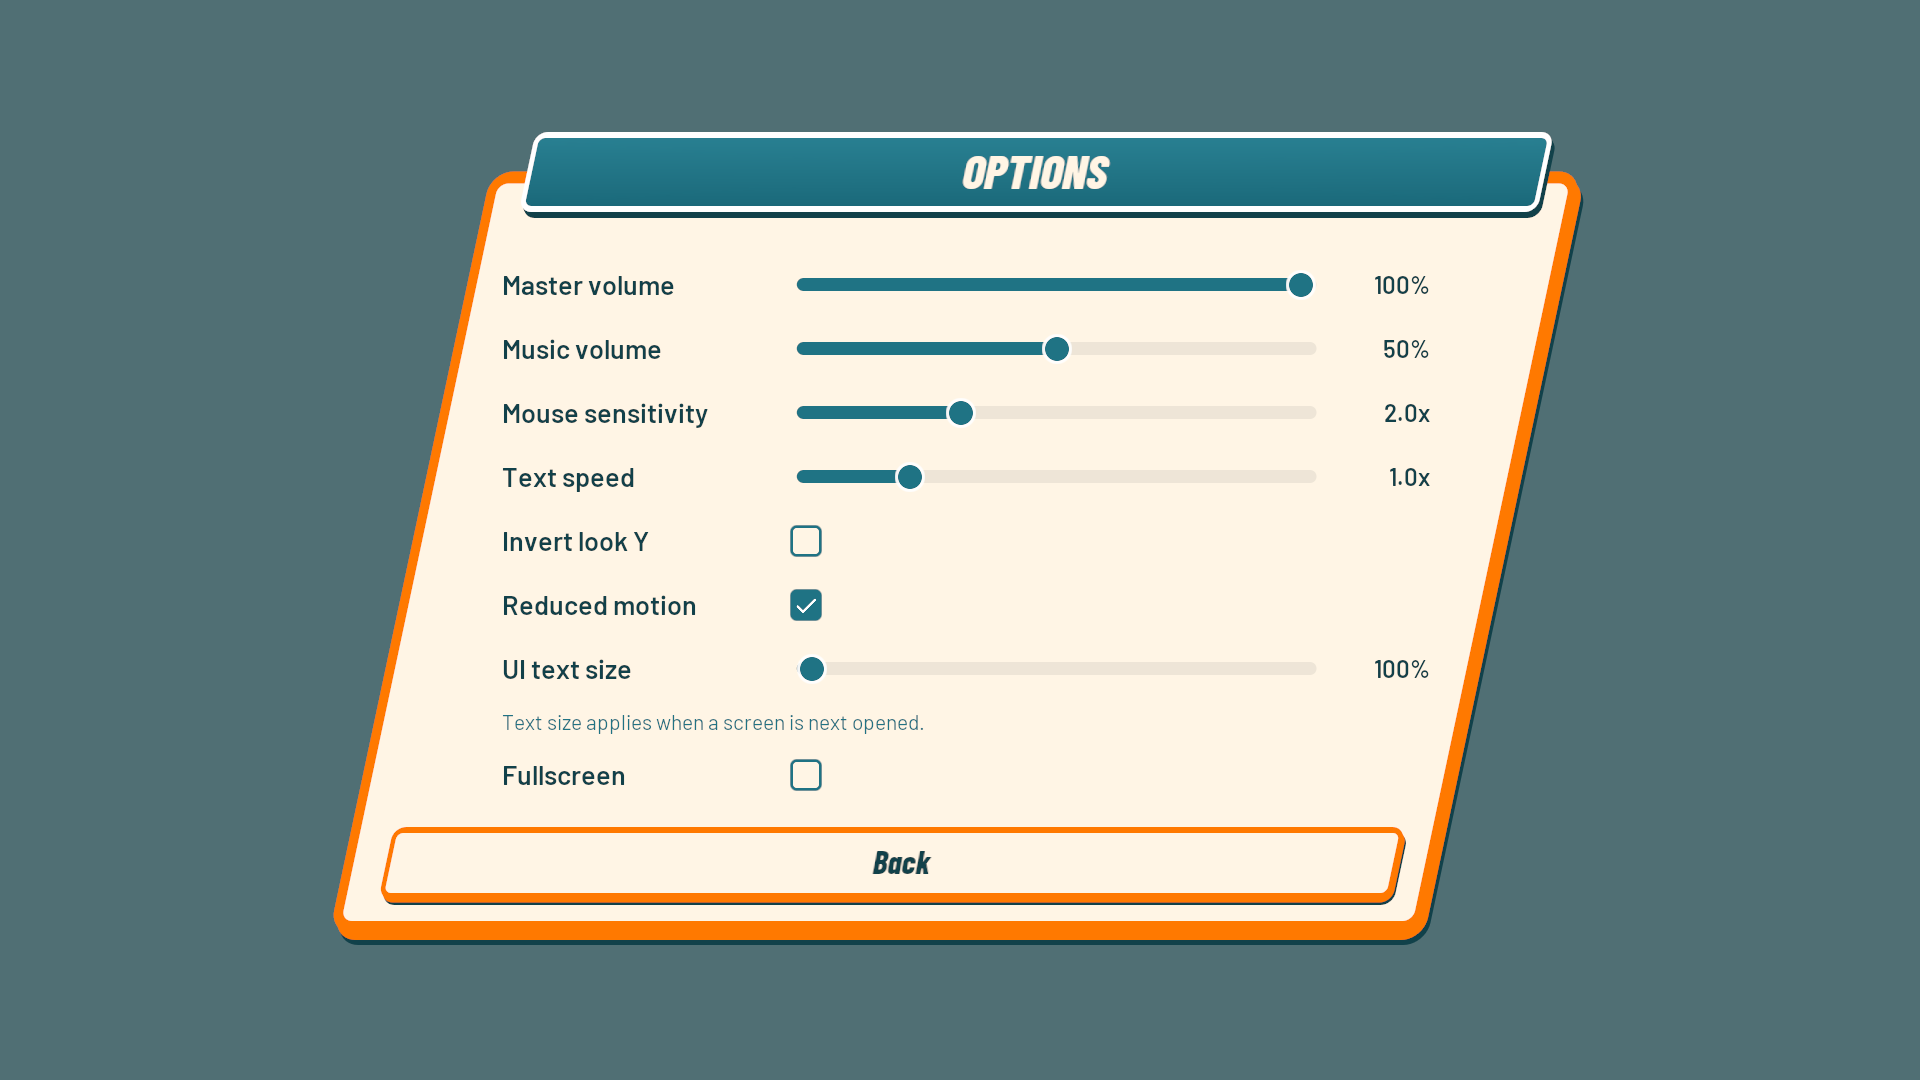
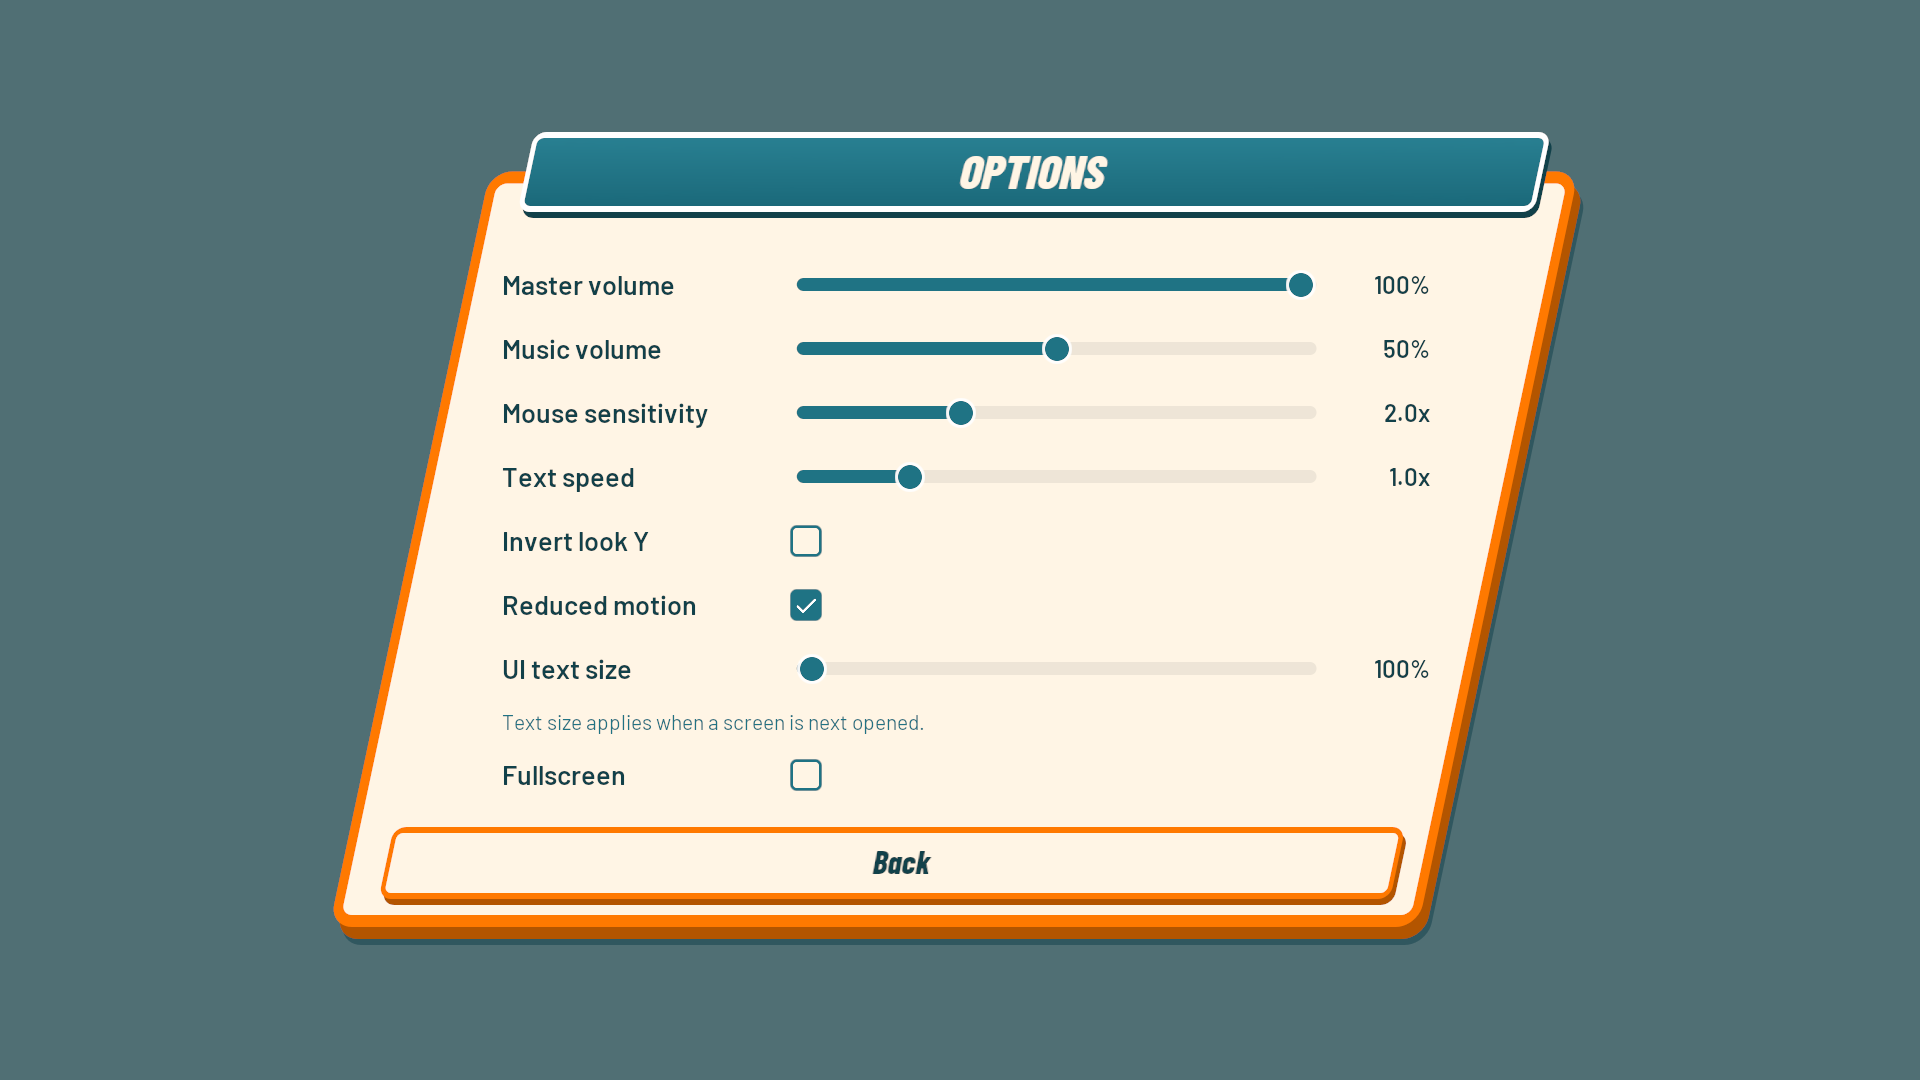
Dialogue in Barlow SemiBold Italic at 12 degrees; 50% shadow on popups
Imports Barlow SemiBold Italic (OFL, same Barlow family) as a 'Lean' typeface:
7-degree native italic plus the shared shear to reach the 12-degree grid.
Spoken lines, narration, topics and replies use it at 26. Popup-weight
surfaces regain an ink shadow at 50% opacity beyond their extrusion.

diff --git a/Source/ICanFixHim/UI/FixHimUI.cpp b/Source/ICanFixHim/UI/FixHimUI.cpp
@@ -37,11 +37,9 @@ static TMap<TWeakObjectPtr<UTextBlock>, int32> AuthoredTextSizes;
 FSlateFontInfo Font(int32 Size, const TCHAR *Typeface)
 {
 	// Strong references keep imported runtime fonts alive and package paths are explicitly cooked.
-	static auto BuildFont = [](bool DisplayFont) {
+	static auto BuildFont = [](const TArray<FString> &Names) {
 		UFont *F = NewObject<UFont>();
 		F->FontCacheType = EFontCacheType::Runtime;
-		const TArray<FString> Names = DisplayFont ? TArray<FString>{TEXT("BarlowCondensed-ExtraBoldItalic")}
-		                                          : TArray<FString>{TEXT("Barlow-Regular"), TEXT("Barlow-SemiBold")};
 		for (int I = 0; I < Names.Num(); ++I)
 		{
 			const FString Path = FString::Printf(TEXT("/Game/ICanFixHim/UI/Design/Fonts/%s.%s"), *Names[I], *Names[I]);
@@ -54,14 +52,17 @@ FSlateFontInfo Font(int32 Size, const TCHAR *Typeface)
 		}
 		return TStrongObjectPtr<UFont>(F);
 	};
-	static TStrongObjectPtr<UFont> Body = BuildFont(false);
-	static TStrongObjectPtr<UFont> Display = BuildFont(true);
+	static TStrongObjectPtr<UFont> Body = BuildFont({TEXT("Barlow-Regular"), TEXT("Barlow-SemiBold")});
+	static TStrongObjectPtr<UFont> Display = BuildFont({TEXT("BarlowCondensed-ExtraBoldItalic")});
+	// "Lean": Barlow SemiBold Italic (7 degrees native), sheared like Display to the 12-degree grid.
+	static TStrongObjectPtr<UFont> Lean = BuildFont({TEXT("Barlow-SemiBoldItalic")});
 	const bool IsDisplay = FCString::Strncmp(Typeface, TEXT("Display"), 7) == 0;
-	UFont *Asset = IsDisplay ? Display.Get() : Body.Get();
+	const bool IsLean = FCString::Strncmp(Typeface, TEXT("Lean"), 4) == 0;
+	UFont *Asset = IsDisplay ? Display.Get() : IsLean ? Lean.Get() : Body.Get();
 	const int32 ScaledSize = FMath::RoundToInt(Size * FixHimDesign::TextScale());
 	return Asset && !Asset->GetCompositeFont()->DefaultTypeface.Fonts.IsEmpty()
 	           ? FSlateFontInfo(Asset, ScaledSize,
-			                    IsDisplay ? FName("Regular")
+			                    IsDisplay || IsLean ? FName("Regular")
 			                    : FCString::Strstr(Typeface, TEXT("Bold")) || FCString::Strstr(Typeface, TEXT("Semi"))
 	                                ? FName("Semibold")
 									: FName("Regular"))
@@ -102,7 +103,8 @@ UTextBlock *MakeText(UWidgetTree *Tree, const FString &Text, int32 Size, const F
 	T->SetFont(Font(Size, Typeface));
 	AuthoredTextSizes.Add(T, Size);
 	T->SetColorAndOpacity(FSlateColor(Color));
-	if (FCString::Strcmp(Typeface, TEXT("Display")) == 0)
+	// "Display"/"Lean" shear per widget; "DisplayFace"/"LeanFace" leave shearing to a parent block.
+	if (FCString::Strcmp(Typeface, TEXT("Display")) == 0 || FCString::Strcmp(Typeface, TEXT("Lean")) == 0)
 	{
 		FWidgetTransform Transform;
 		Transform.Shear = FVector2D(-FMath::RadiansToDegrees(FMath::Atan(FixHimDesign::DisplayShear)), 0);

diff --git a/Source/ICanFixHim/UI/FixHimDialogueWidget.cpp b/Source/ICanFixHim/UI/FixHimDialogueWidget.cpp
@@ -175,7 +175,7 @@ void UFixHimDialogueWidget::BuildUI()
 	CastChecked<UScrollBoxSlot>(LineScroll->AddChild(TextArea))->SetPadding(FMargin(20, 0, 20, 0));
 	Col->AddChildToVerticalBox(LineBounds)->SetPadding(FMargin(0, 2, 0, 20));
 	// Authored at the line size: RefreshTextScale restores authored sizes when a cached screen reopens.
-	TypingText = MakeText(WidgetTree, TEXT(""), FixHimDesign::Line, Plum, TEXT("DisplayFace"));
+	TypingText = MakeText(WidgetTree, TEXT(""), FixHimDesign::Line, Plum, TEXT("LeanFace"));
 	TypingText->SetAutoWrapText(true);
 	TextArea->AddChildToOverlay(TypingText)->SetHorizontalAlignment(HAlign_Fill);
 	WordWrap = WidgetTree->ConstructWidget<UWrapBox>();
@@ -294,7 +294,7 @@ void UFixHimDialogueWidget::ShowView(const FDialogueView &View)
 	NameText->SetText(FText::FromString(Speaker.ToUpper()));
 	// Spoken lines and narration share the reply face and size, sheared to the 12° grid as one block.
 	// Narration keeps its teal color to stay distinct from characters.
-	TypingText->SetFont(Font(FixHimDesign::Line, TEXT("Display")));
+	TypingText->SetFont(Font(FixHimDesign::Line, TEXT("LeanFace")));
 	FWidgetTransform LineLean;
 	LineLean.Shear = FVector2D(-FMath::RadiansToDegrees(FMath::Atan(FixHimDesign::DisplayShear)), 0);
 	LineArea->SetRenderTransform(LineLean);
@@ -416,8 +416,8 @@ void UFixHimDialogueWidget::BuildWordWrap()
 	const bool bNarration = Current.Speaker == EDialogueSpeaker::Narration;
 	TWeakObjectPtr<UFixHimDialogueWidget> Self(this);
 	const int32 LineSize = FixHimDesign::Line;
-	// "DisplayFace" is the display font without MakeText's per-widget shear; LineArea leans the whole line.
-	const TCHAR *LineFace = TEXT("DisplayFace");
+	// "LeanFace" is the italic body font without MakeText's per-widget shear; LineArea leans the whole line.
+	const TCHAR *LineFace = TEXT("LeanFace");
 	auto FlowTokens = Tokens;
 	for (int32 TokenIndex = 0; TokenIndex < FlowTokens.Num(); ++TokenIndex)
 	{
@@ -492,7 +492,7 @@ void UFixHimDialogueWidget::BuildChoices()
 		const FVector2f Press = FixHimDesign::DepthOffset(FixHimDesign::ButtonBorder);
 		Style.SetPressedPadding(FMargin(52 + Press.X, 17 + Press.Y, 32 - Press.X, 17 - Press.Y + FixHimDesign::Extrusion));
 		B->SetStyle(Style);
-		B->Label = MakeText(WidgetTree, Label, FixHimDesign::Reply, Plum, TEXT("Display"));
+		B->Label = MakeText(WidgetTree, Label, FixHimDesign::Reply, Plum, TEXT("Lean"));
 		B->Label->SetAutoWrapText(true);
 		B->Label->SetRenderTranslation(FVector2D(0, B->Label->GetFont().Size * FixHimDesign::CapCentre));
 		B->Label->SetColorAndOpacity(FSlateColor::UseForeground());

diff --git a/Source/ICanFixHim/UI/FixHimDesign.h b/Source/ICanFixHim/UI/FixHimDesign.h
@@ -31,8 +31,12 @@ inline constexpr float ButtonBorder = 6.f, PopupBorder = 12.f;
  * get half the popups' depth. The face leaves DepthReserve(B) of its box for it.
  */
 inline FVector2f DepthOffset(float Border) { return FVector2f(Border * .5f, Border); }
-inline constexpr float DepthReserveX(float Border) { return Border * .5f + 3.f; }
-inline constexpr float DepthReserveY(float Border) { return Border + 3.f; }
+/** Popup-weight surfaces add a 50% ink shadow this far beyond their extrusion. */
+inline constexpr bool HasShadow(float Border) { return Border >= PopupBorder; }
+inline constexpr float ShadowExtraX = 3.f, ShadowExtraY = 6.f, ShadowOpacity = .5f;
+inline FVector2f ShadowOffset(float Border) { return DepthOffset(Border) + FVector2f(ShadowExtraX, ShadowExtraY); }
+inline constexpr float DepthReserveX(float Border) { return Border * .5f + 3.f + (HasShadow(Border) ? ShadowExtraX : 0.f); }
+inline constexpr float DepthReserveY(float Border) { return Border + 3.f + (HasShadow(Border) ? ShadowExtraY : 0.f); }
 /**
  * Vertical centring on slanted surfaces: the face excludes the extrusion reserve at the bottom, so text is centred
  * when bottom padding = top padding + Extrusion (button-weight plates). Barlow's line box (ascender 1.0 em,
@@ -40,7 +44,7 @@ inline constexpr float DepthReserveY(float Border) { return Border + 3.f; }
  */
 inline constexpr float Extrusion = DepthReserveY(ButtonBorder), CapCentre = -.05f;
 inline constexpr float HitHeight = 48.f;
-inline constexpr int32 Caption = 16, Body = 22, Line = 28, Reply = 28, Label = 24, Heading = 36, Hero = 72;
+inline constexpr int32 Caption = 16, Body = 22, Line = 26, Reply = 26, Label = 24, Heading = 36, Hero = 72;
 ICANFIXHIM_API bool ReducedMotion();
 ICANFIXHIM_API float TextScale();
 ICANFIXHIM_API UImage *Icon(UWidgetTree *Tree, const FString &Name, const FLinearColor &Tint);

diff --git a/Source/ICanFixHim/UI/FixHimDesign.cpp b/Source/ICanFixHim/UI/FixHimDesign.cpp
@@ -100,6 +100,11 @@ void Surface(FSlateWindowElementList &Out, int32 Layer, const FGeometry &G, FLin
 	const auto Edge = !Enabled ? DisabledInk : Reading ? Orange : FLinearColor::White;
 	// One extrusion layer, no separate shadow: cream extrudes burnt orange, pink a deep pink, everything else ink.
 	const auto Depth = !Enabled ? DisabledInk : Reading ? OrangeDepth : PinkFace ? PinkDepth : Ink;
+	if (HasShadow(Keyline))
+	{
+		const FLinearColor Shadow = Ink.CopyWithNewOpacity(ShadowOpacity);
+		Shape(Out, Layer, G, ShadowOffset(Keyline), FaceSize, R, Slanted, Shadow, Shadow, Tint);
+	}
 	Shape(Out, Layer + 1, G, DepthOffset(Keyline), FaceSize, R, Slanted, Depth, Depth, Tint);
 	Shape(Out, Layer + 2, G, Offset, FaceSize, R, Slanted, Focused ? FLinearColor::White : Edge,
 	      Focused ? FLinearColor::White : Edge, Tint);

diff --git a/docs/03 Art & Audio/UI Design System.md b/docs/03 Art & Audio/UI Design System.md
@@ -49,7 +49,8 @@ Keep cream reading surfaces, disabled controls and reticles flat. Avoid glossy s
 
 | Role | Font | Treatment |
 |---|---|---|
-| Headings, short display labels, all dialogue text (spoken lines, narration, replies) | Barlow Condensed ExtraBold Italic, 800 | Effective 12° right lean |
+| Headings, short display labels | Barlow Condensed ExtraBold Italic, 800 | Effective 12° right lean |
+| All dialogue text (spoken lines, narration, replies) | Barlow SemiBold Italic, 600, at 26 | Effective 12° right lean |
 | Helper text | Barlow Regular, 400 | Upright |
 | Body emphasis and stronger labels | Barlow Semibold, 600 | Upright |
 
@@ -65,7 +66,7 @@ The selected treatment restores **rounded corners, thicker asymmetric borders an
 - The **placement grid also uses 12°**. Control origins, text-block anchors and icon anchors align along shared angled columns; rows and text baselines remain horizontal.
 - Rounded cream panel bodies pair with teal headers, orange borders heavier on the lower/right sides, and short ink offset shadows.
 - **Keylines:** buttons and plates use a 6-unit keyline; popup cards and panels use 12.
-- **Extrusion matches the keyline:** a single extrusion layer (no separate shadow) drops by the keyline width and slides right by half of it, so buttons and plates have half the popups' extrusion. Each surface extrudes in a darker shade of its own family: cream → `#B35500` (keyline orange at 70% value, same hue), pink → `#99003F`, teal and other fills → ink. Pressing pushes the face onto its extrusion.
+- **Extrusion matches the keyline:** a single extrusion layer (no separate shadow) drops by the keyline width and slides right by half of it, so buttons and plates have half the popups' extrusion. Each surface extrudes in a darker shade of its own family: cream → `#B35500` (keyline orange at 70% value, same hue), pink → `#99003F`, teal and other fills → ink. Popup-weight surfaces (cards, dialogue panel, floor plan sheet) also carry a 50% ink shadow just beyond their extrusion. Pressing pushes the face onto its extrusion.
 - **HUD (show-graphics):** the room name sits on a pink plate with a wrench icon; the week sits on its own cream plate, tucked under a pink repairs badge with a house icon, a small "Repairs" label and a large count.
 - **Text is vertically centred on the face** of every button, header and plate: bottom padding = top padding + the extrusion reserve (keyline + 3), and labels lift by 0.05 em so capitals (not the font's line box) sit on the centre. Buttons carry 16 units of vertical padding.
 - The title screen shows only the logo and menu: no tagline or event footer.
@@ -169,7 +170,7 @@ The image still has alpha-edge speckling; cleanup and an editable production mas
 
 The shared Unreal components and first screen migration are implemented on `feature/reusable-ui-design-system`. See [[UI Component Library]] for APIs, source files, asset rebuilding, validation and the review captures. The selected palette, licensed fonts/icons and 12° placement grid are reused across screens; new component proportions and screen compositions still await design feedback.
 
-The implementation includes resizable rounded surfaces and asymmetric borders, shared action/reply/topic controls, visible focus/pressed/disabled states, bounded reading areas, sliders/checkboxes, text-size and reduced-motion settings, and an in-engine component workshop (`FixHim.DesignSystem`). Short action labels and all dialogue text (spoken lines, narration, replies at 28 units) use the selected display treatment; narration is distinguished by teal color. Continue is the primary title action when a save exists. Small status labels use flat or sufficiently dark surfaces; pale relationship colors remain accents beside readable labels.
+The implementation includes resizable rounded surfaces and asymmetric borders, shared action/reply/topic controls, visible focus/pressed/disabled states, bounded reading areas, sliders/checkboxes, text-size and reduced-motion settings, and an in-engine component workshop (`FixHim.DesignSystem`). Short action labels use the display treatment; all dialogue text (spoken lines, narration, replies at 26 units) uses Barlow SemiBold Italic at the same 12° lean; narration is distinguished by teal color. Continue is the primary title action when a save exists. Small status labels use flat or sufficiently dark surfaces; pale relationship colors remain accents beside readable labels.
 
 ## Remaining work and provenance
 

diff --git a/docs/04 Tech/UI Component Library.md b/docs/04 Tech/UI Component Library.md
@@ -41,7 +41,7 @@ Use the common popup `MakeCardScreen` rather than building a new modal frame per
 
 `UFixHimButton::Make` creates a wrapping labelled action button and accepts its existing callback. `SetVariant(EFixHimButtonVariant)` selects a semantic variant. The legacy boolean overload remains for existing callers. `Label` is available for alignment and content updates.
 
-Short action labels use Barlow Condensed ExtraBold Italic with the shared 12° display treatment. Replies, spoken lines and narration all use the display face at 28 units (narration in teal); the dialogue line area is sheared as one block so the typewriter and final topic layouts match. Actions have a content-driven height with a 72-unit minimum in menus, allowing enlarged text to grow.
+Short action labels use Barlow Condensed ExtraBold Italic with the shared 12° display treatment. Replies, spoken lines and narration all use Barlow SemiBold Italic (`Lean` typeface) at 26 units (narration in teal); the dialogue line area is sheared as one block so the typewriter and final topic layouts match. Actions have a content-driven height with a 72-unit minimum in menus, allowing enlarged text to grow.
 
 States: idle, hover, keyboard/gamepad focus, pressed, selected and disabled. Selected reuses the focus treatment. Shared action buttons show a white contour and diamond on hover/focus; state meaning does not rely on pink alone. Pressing moves the face towards its extrusion; disabled uses neutral surface/ink. No heart is added to a reply to predict relationship outcomes.
 
